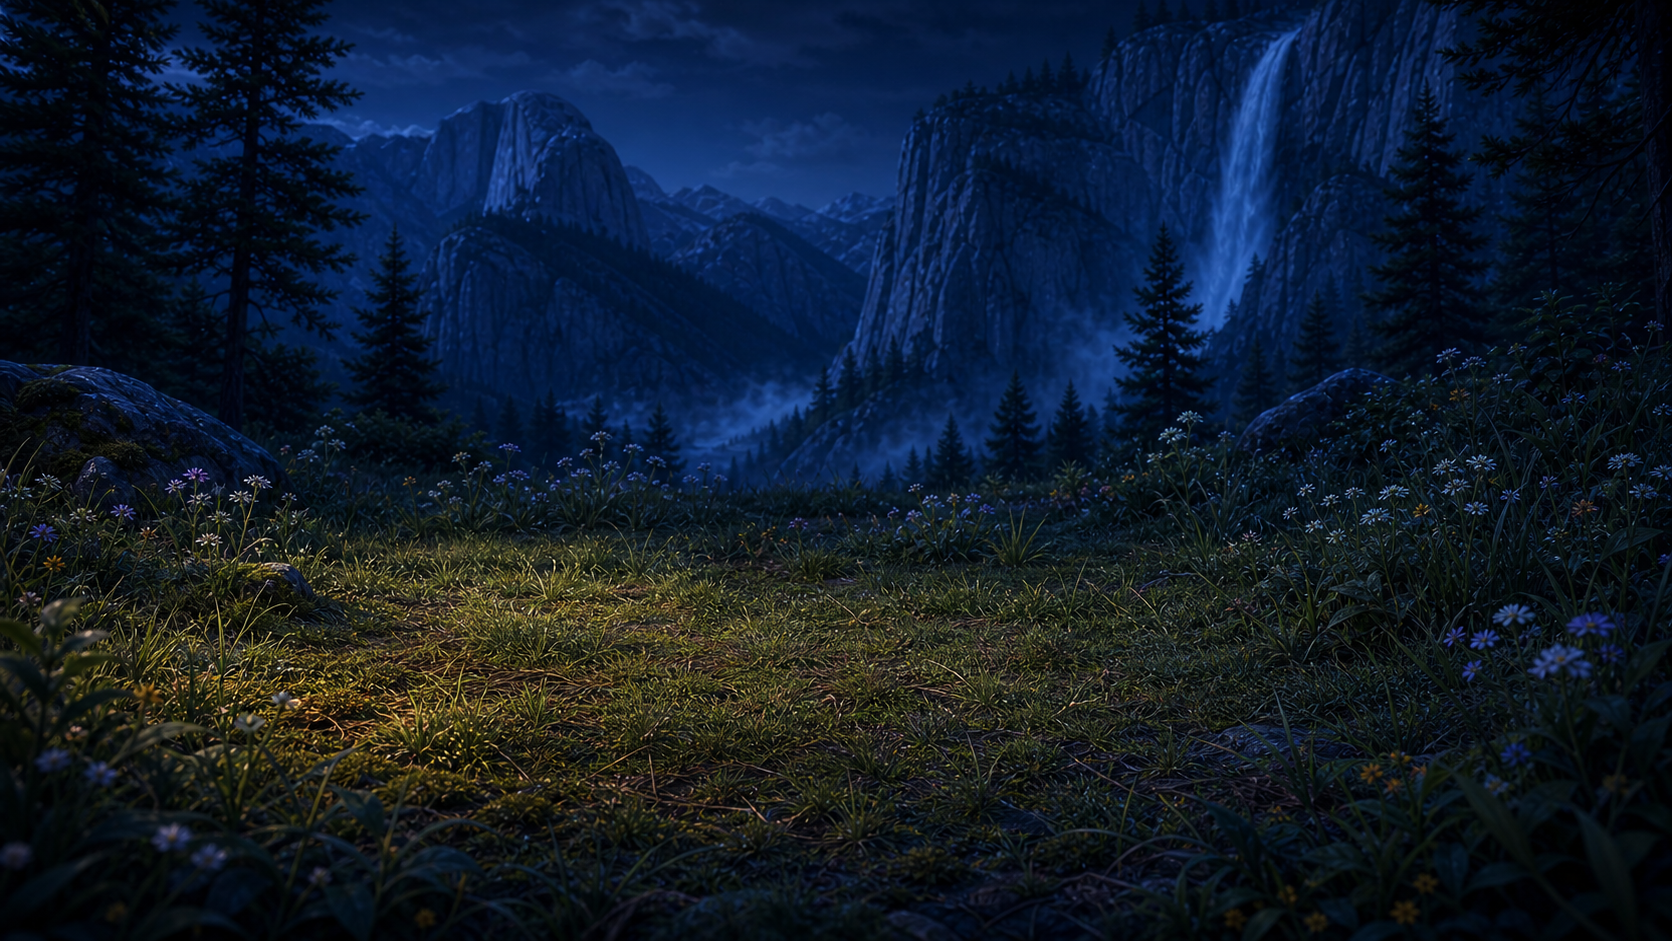
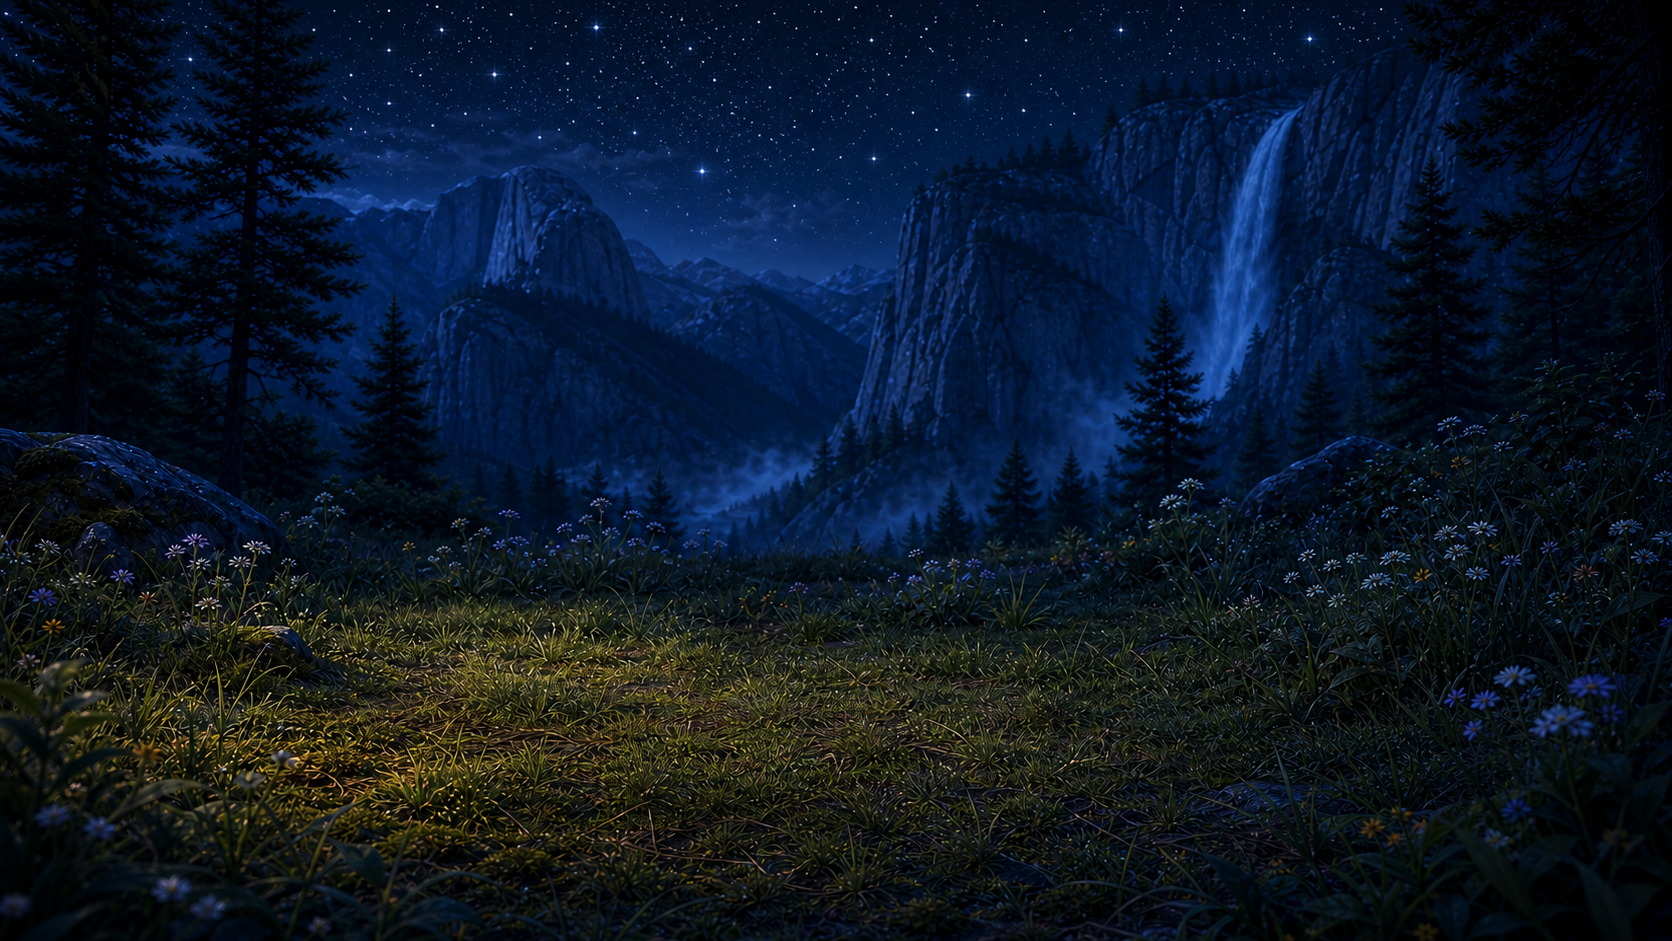
Made check in popup be similar to day count popup

diff --git a/index.html b/index.html
@@ -887,13 +887,18 @@
     }
 
     .setup-card {
-      width: min(520px, 100%);
-      padding: clamp(24px, 5vw, 38px);
-      background:
-        linear-gradient(180deg, rgba(255, 248, 224, .96), rgba(232, 199, 137, .93));
-      border: 1px solid rgba(255, 242, 208, .68);
-      box-shadow: 0 24px 70px rgba(0, 0, 0, .48);
-      backdrop-filter: blur(12px);
+      width: min(560px, 100%);
+      min-height: min(360px, calc(100dvh - 72px));
+      display: grid;
+      align-content: center;
+      justify-items: center;
+      padding: clamp(30px, 7vw, 54px);
+      background: transparent;
+      border: 0;
+      box-shadow: none;
+      color: #fff4dc;
+      text-align: center;
+      filter: none;
       z-index: 1;
     }
 
@@ -925,16 +930,21 @@
 
     .setup-card h2 {
       font-family: Georgia, "Times New Roman", serif;
-      font-size: clamp(34px, 8vw, 52px);
-      line-height: .92;
-      color: #5c271f;
+      font-size: clamp(56px, 12vw, 104px);
+      line-height: .86;
+      letter-spacing: 0;
+      color: #fff4dc;
+      text-shadow: 0 8px 34px rgba(0, 0, 0, .82);
+      white-space: nowrap;
     }
 
     .checkin-copy {
-      margin: 0 0 18px;
-      color: rgba(66, 45, 27, .78);
-      font-size: 15px;
-      line-height: 1.45;
+      margin: 16px auto 18px;
+      max-width: 38ch;
+      color: rgba(255, 247, 226, .92);
+      font-size: clamp(15px, 2.8vw, 19px);
+      line-height: 1.38;
+      text-shadow: 0 3px 16px rgba(0, 0, 0, .84);
     }
 
     label {
@@ -960,6 +970,30 @@
     input:focus {
       border-color: rgba(168, 79, 92, .75);
       box-shadow: 0 0 0 3px rgba(168, 79, 92, .18), inset 0 2px 8px rgba(92, 54, 23, .08);
+    }
+
+    .setup-card label {
+      margin: 0 0 8px;
+      color: rgba(255, 228, 164, .9);
+      font-size: clamp(12px, 2.4vw, 15px);
+      letter-spacing: .12em;
+      text-shadow: 0 3px 18px rgba(0, 0, 0, .82);
+      text-transform: uppercase;
+    }
+
+    .setup-card input {
+      max-width: 360px;
+      border-color: rgba(255, 242, 208, .42);
+      background: rgba(22, 17, 16, .54);
+      color: #fff7e8;
+      box-shadow: 0 16px 34px rgba(0, 0, 0, .32), inset 0 1px 0 rgba(255, 255, 255, .08);
+      text-align: center;
+      backdrop-filter: blur(8px);
+    }
+
+    .setup-card input:focus {
+      border-color: rgba(255, 228, 164, .76);
+      box-shadow: 0 0 0 3px rgba(255, 228, 164, .18), 0 16px 34px rgba(0, 0, 0, .32), inset 0 1px 0 rgba(255, 255, 255, .08);
     }
 
     .setup-card .primary,
@@ -989,6 +1023,7 @@
 
     .setup-card .setup-actions {
       grid-template-columns: 1fr;
+      width: min(240px, 100%);
     }
 
     @keyframes setup-card-enter {
@@ -1286,7 +1321,7 @@
           <h2>Check-In</h2>
           <p class="checkin-copy">Your badge is waiting at the check-in desk. Choose the name the route leads will try very hard to say normally.</p>
           <label for="playerName">Name</label>
-          <input id="playerName" maxlength="24" placeholder="Name" autocomplete="off" required>
+          <input id="playerName" maxlength="24" autocomplete="off" required>
           <div class="setup-actions">
             <button class="primary" id="beginBtn">OK</button>
           </div>